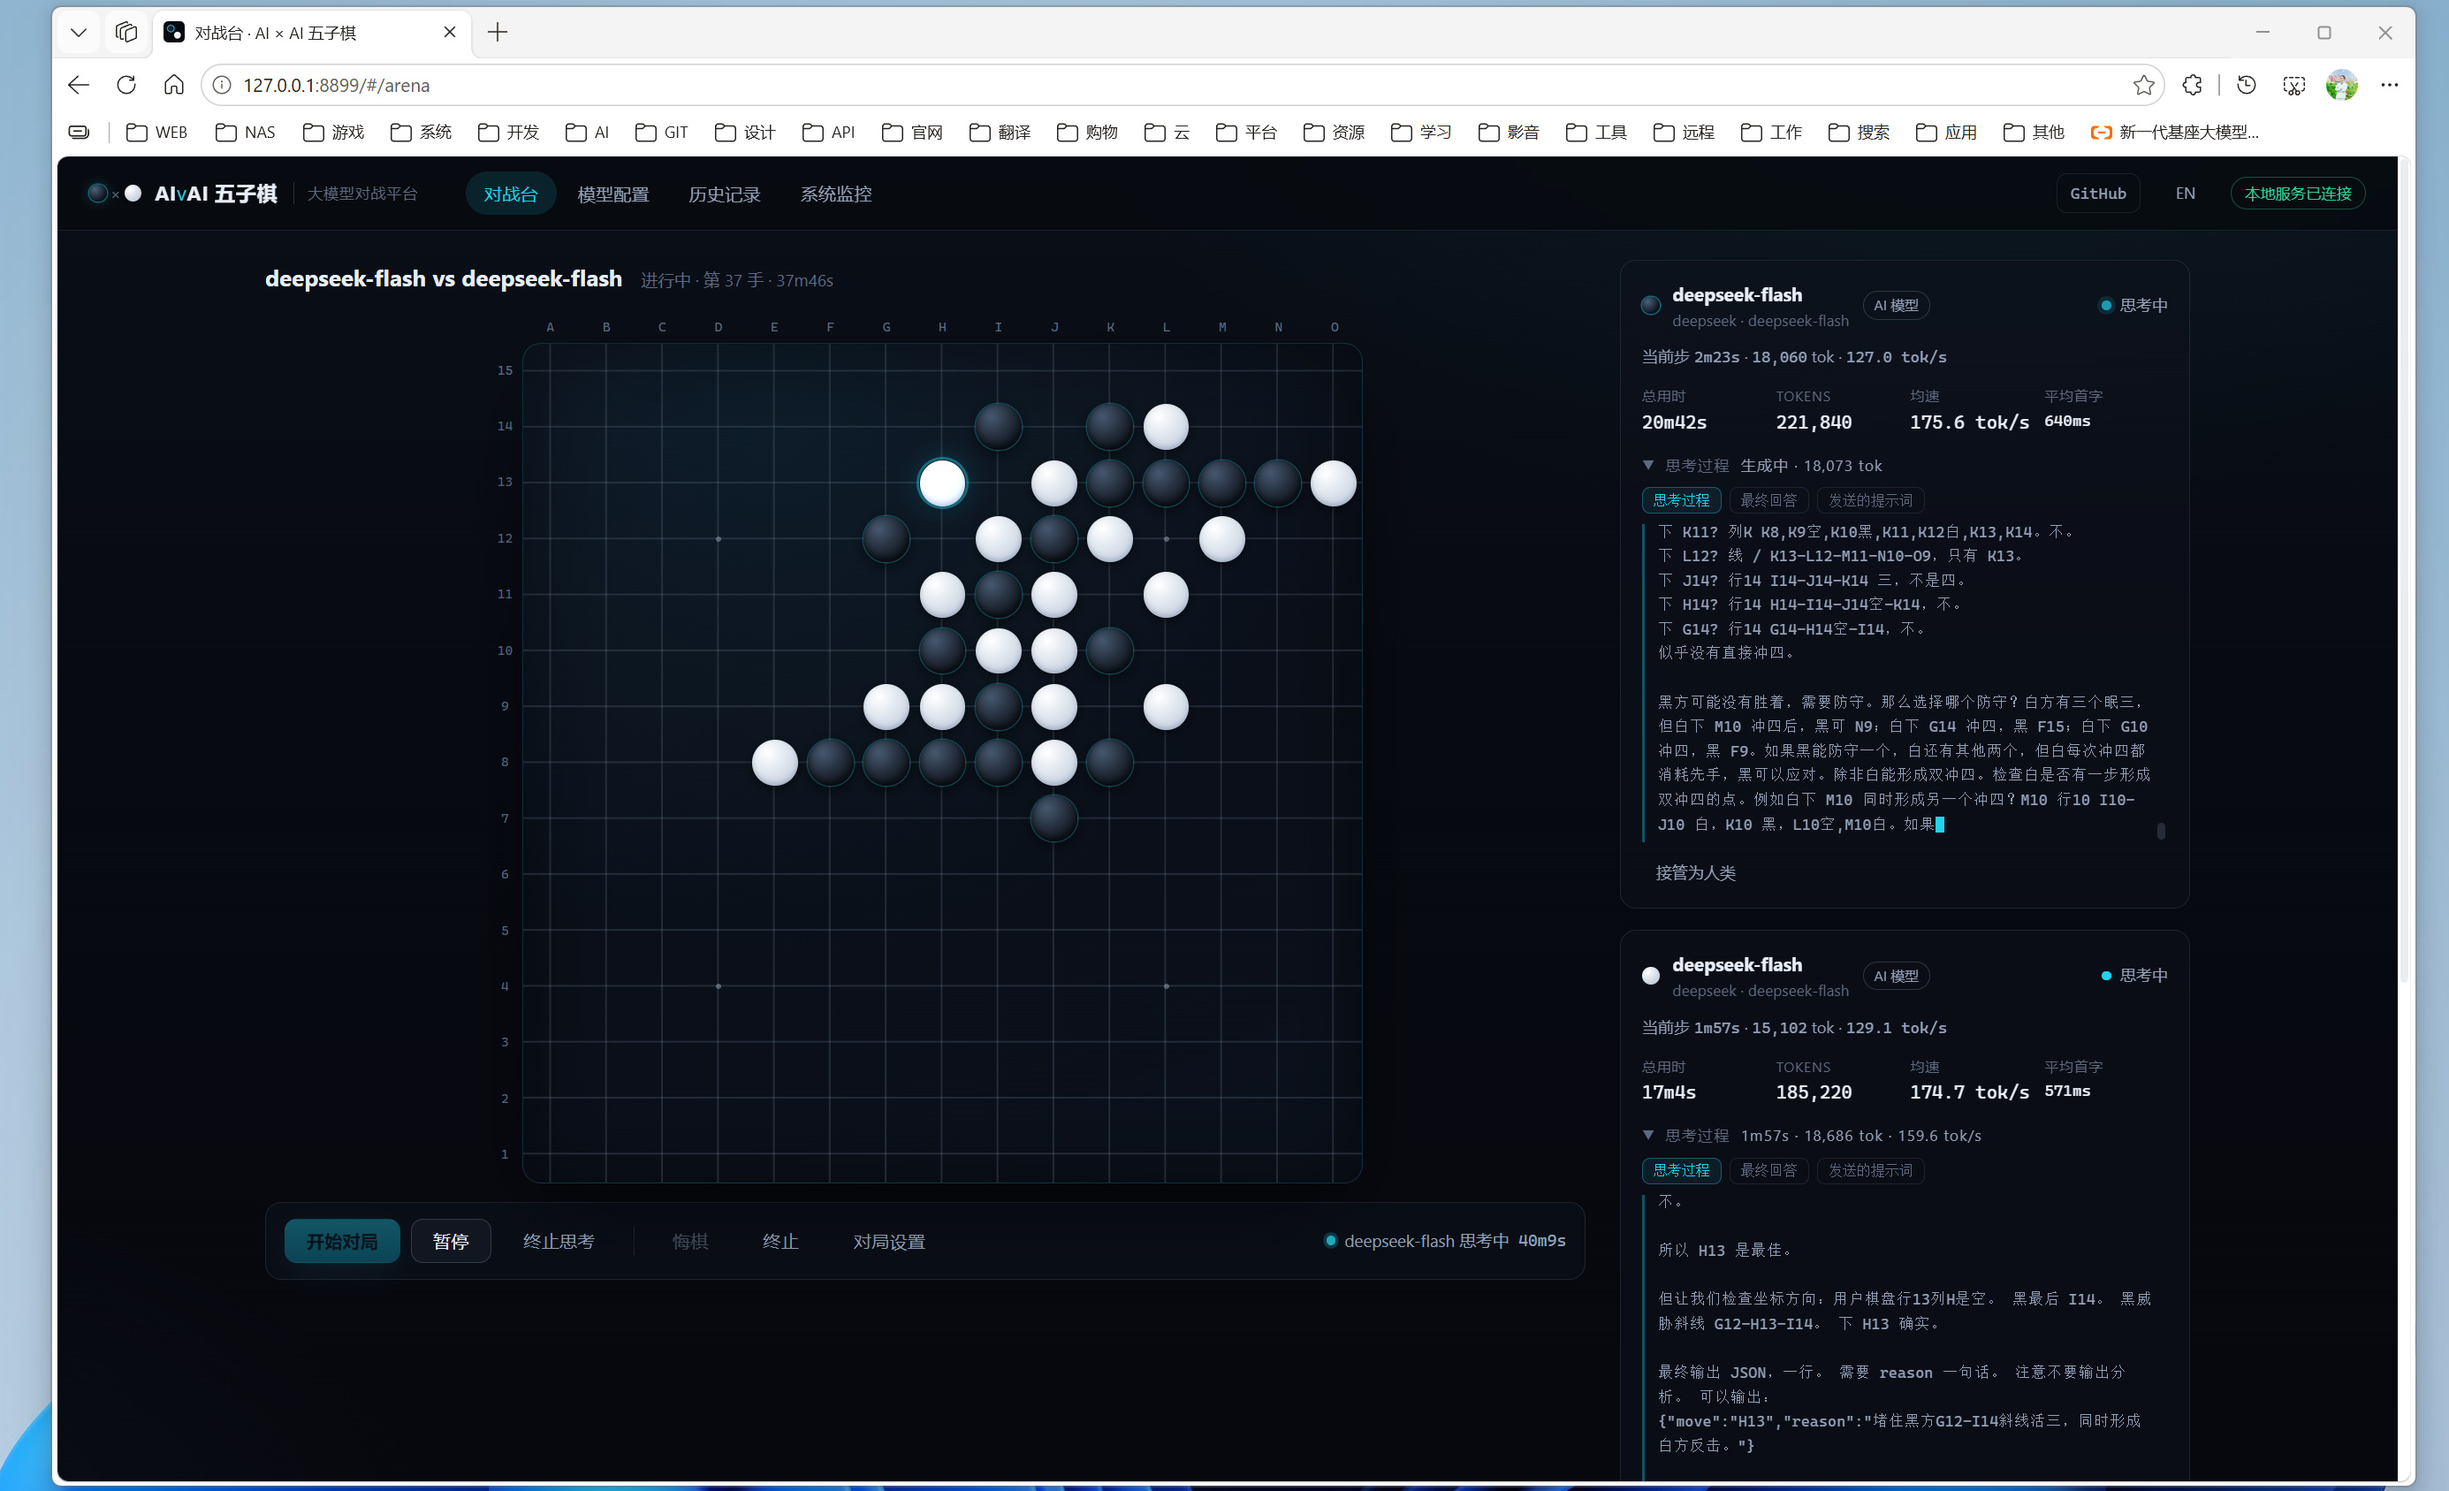
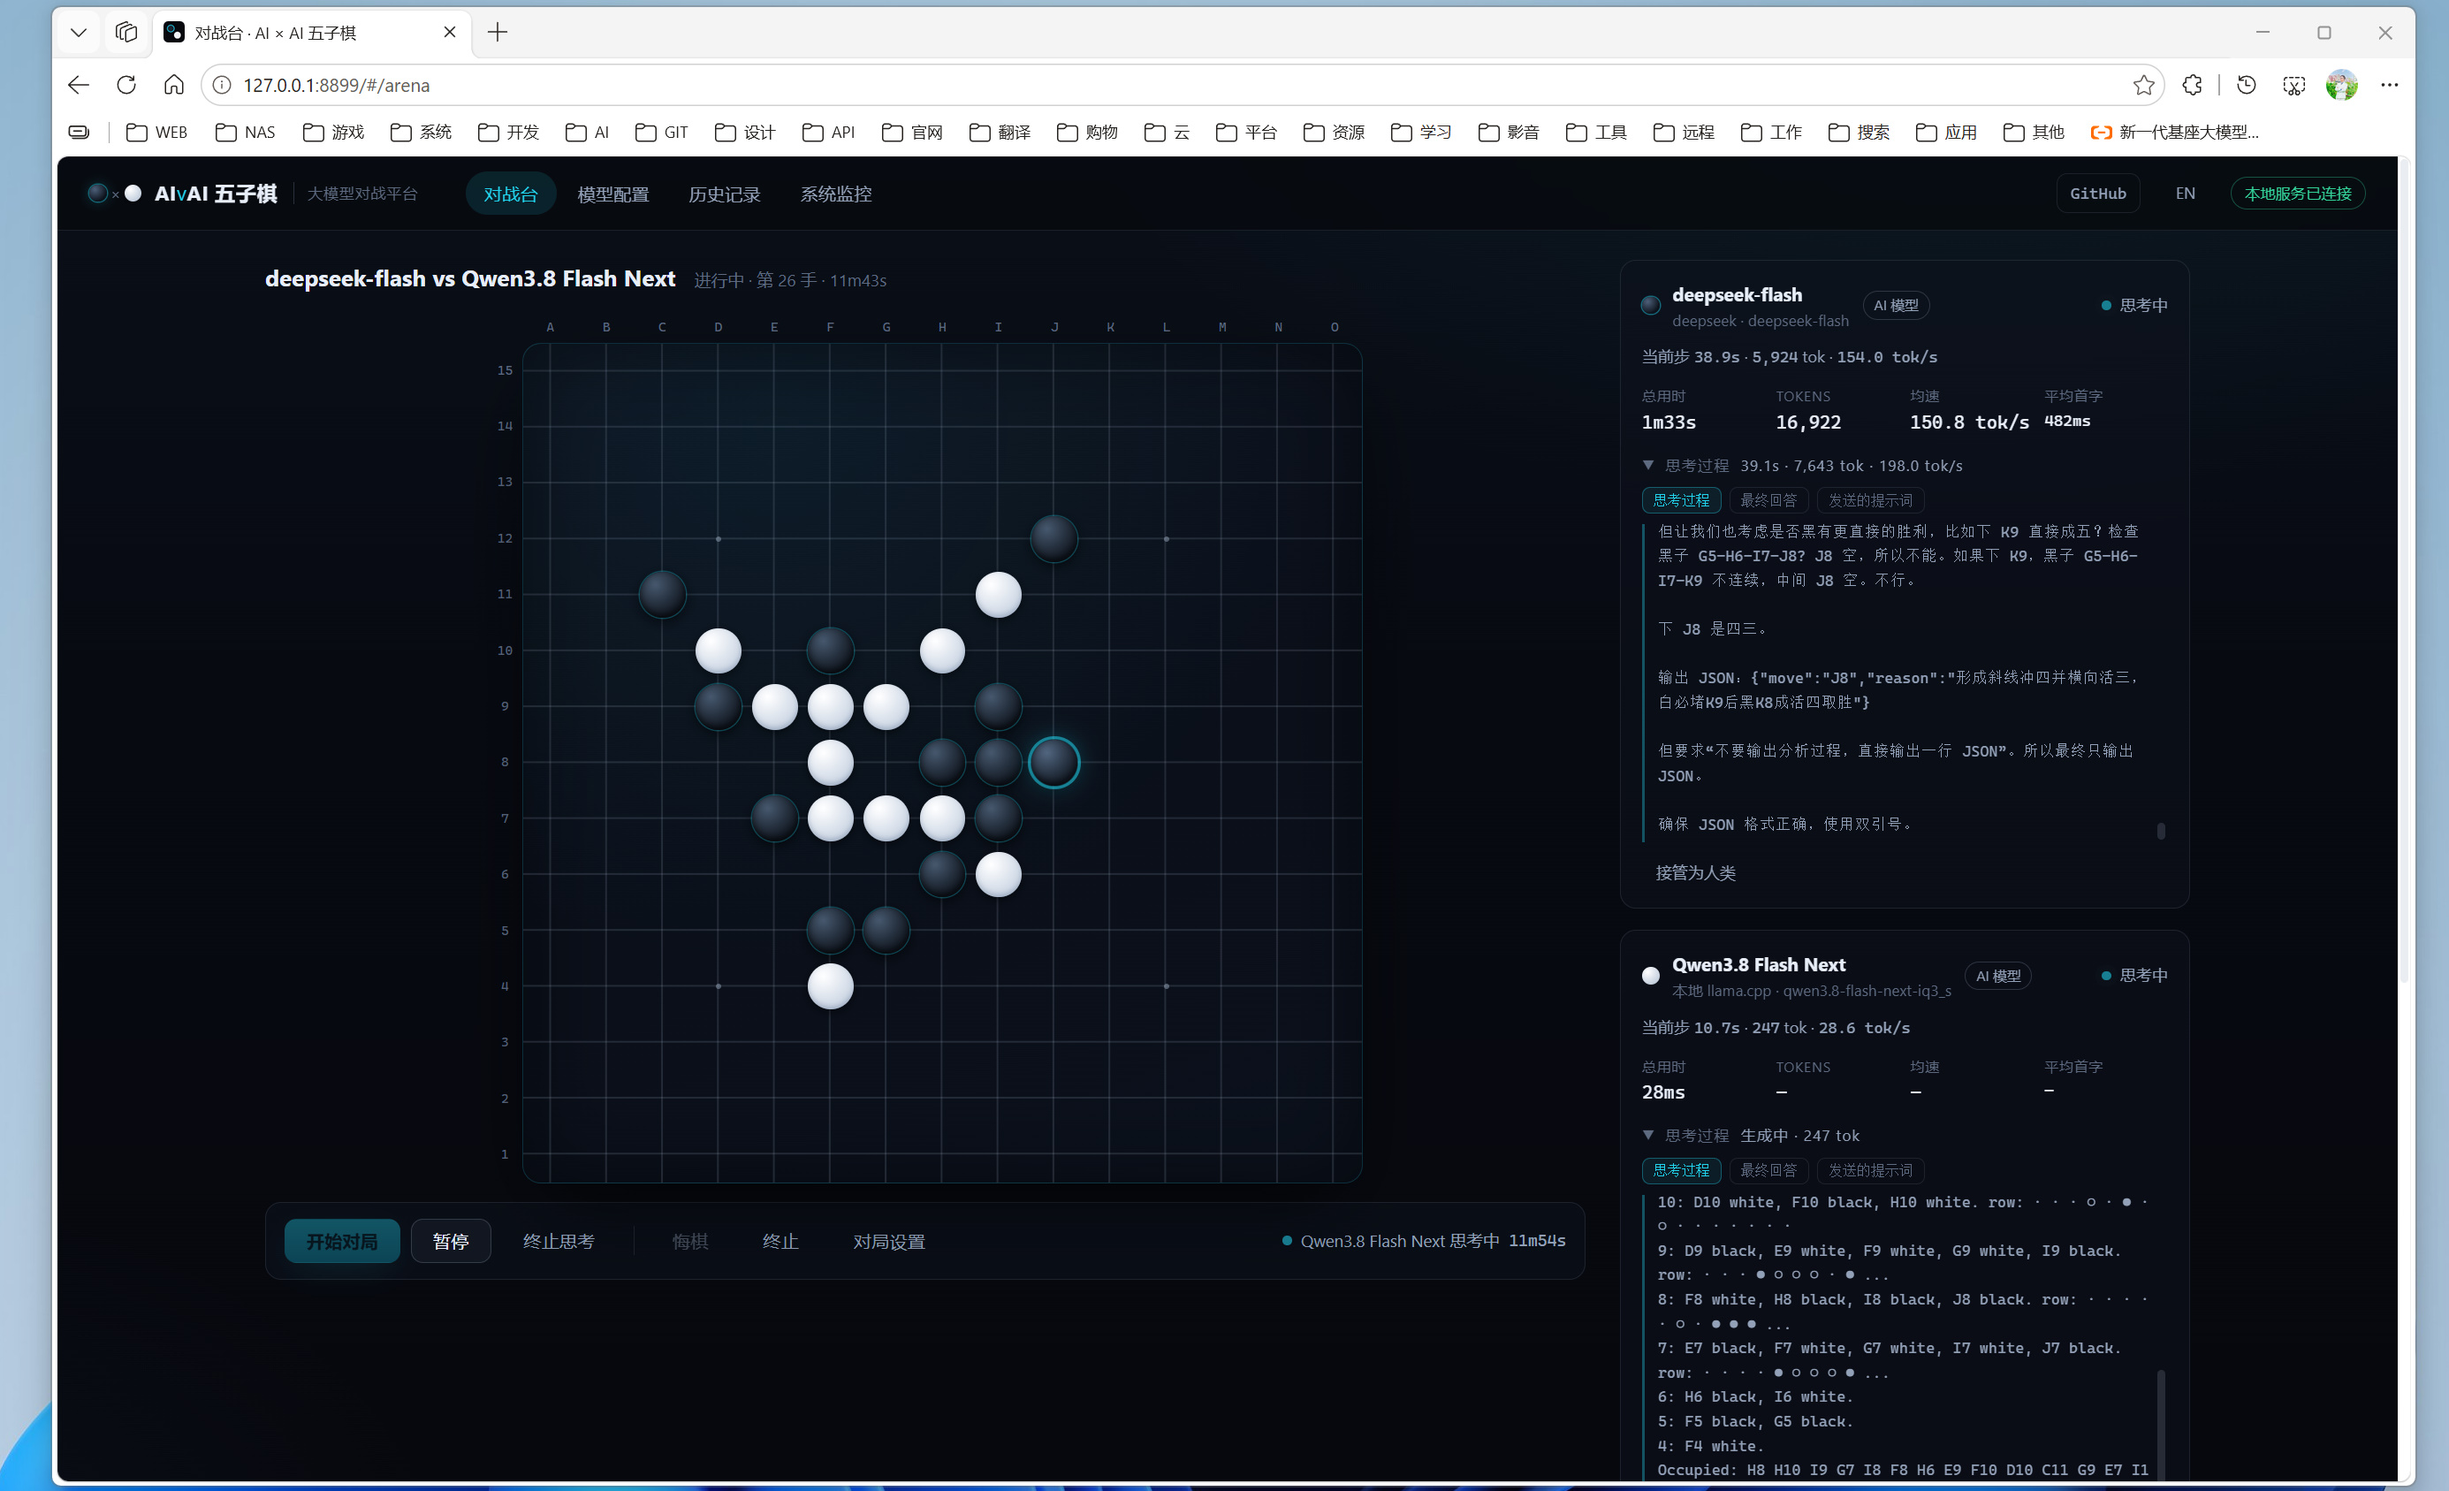
update README

diff --git a/README.en.md b/README.en.md
@@ -67,6 +67,9 @@ Key points:
   - `{"reasoning_effort": "low"}` — lower the reasoning effort (services that support this parameter)
 - Start **llama.cpp** with `--metrics` so the monitor page can show full metrics such as token counts, KV cache, request queue and MTP draft acceptance rate (it works without it — just with fewer metrics)
 
+#### screenshot
+![Img](doc/image1.jpg)
+
 ## Match mechanics
 
 - 15×15, no forbidden moves (size selectable: 13/15/19); Black moves first; win with five or more in a row horizontally, vertically or diagonally; a full board is a draw

diff --git a/README.md b/README.md
@@ -67,6 +67,10 @@
   - `{"reasoning_effort": "low"}` — 降低推理强度（支持该参数的服务）
 - **llama.cpp** 启动时加 `--metrics`，监控页才能显示 tokens 计数、KV 缓存、请求队列、MTP 草稿接受率等完整指标（不加也能用，只是指标少）
 
+#### 截图
+![Img](doc/image3.jpg)
+
+
 ## 对局机制
 
 - 15×15 无禁手（尺寸可选 13/15/19），黑先，横竖斜五连或以上获胜，满盘和棋
